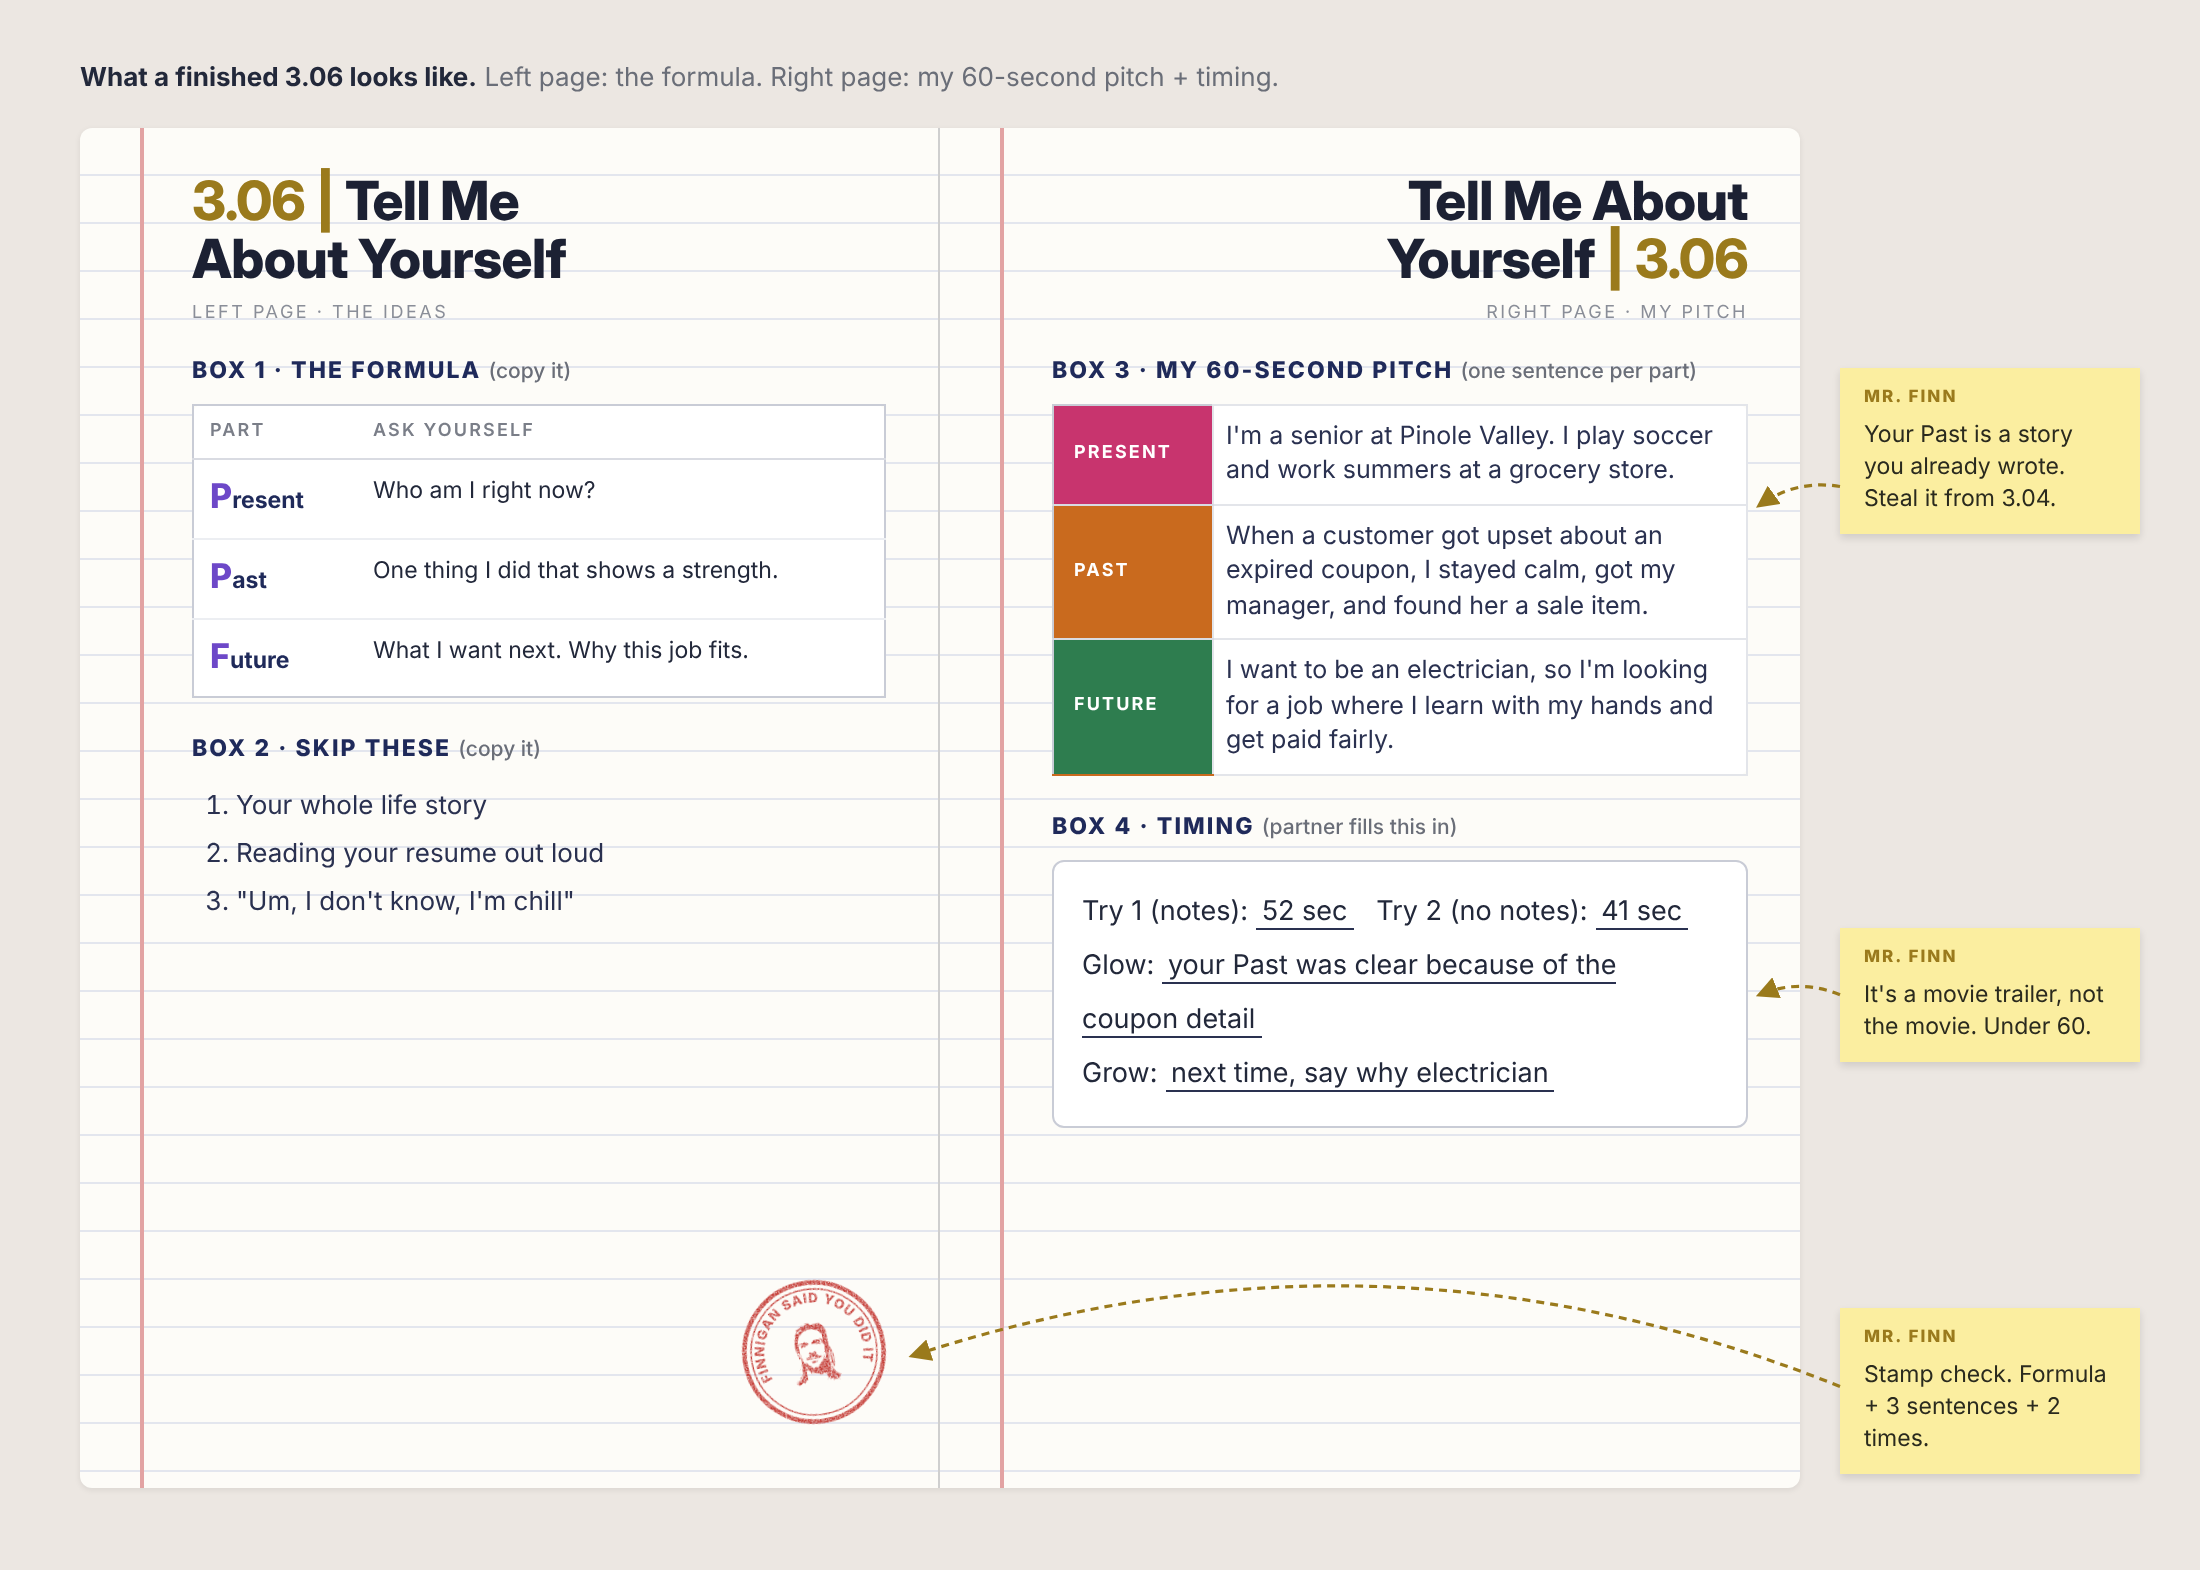
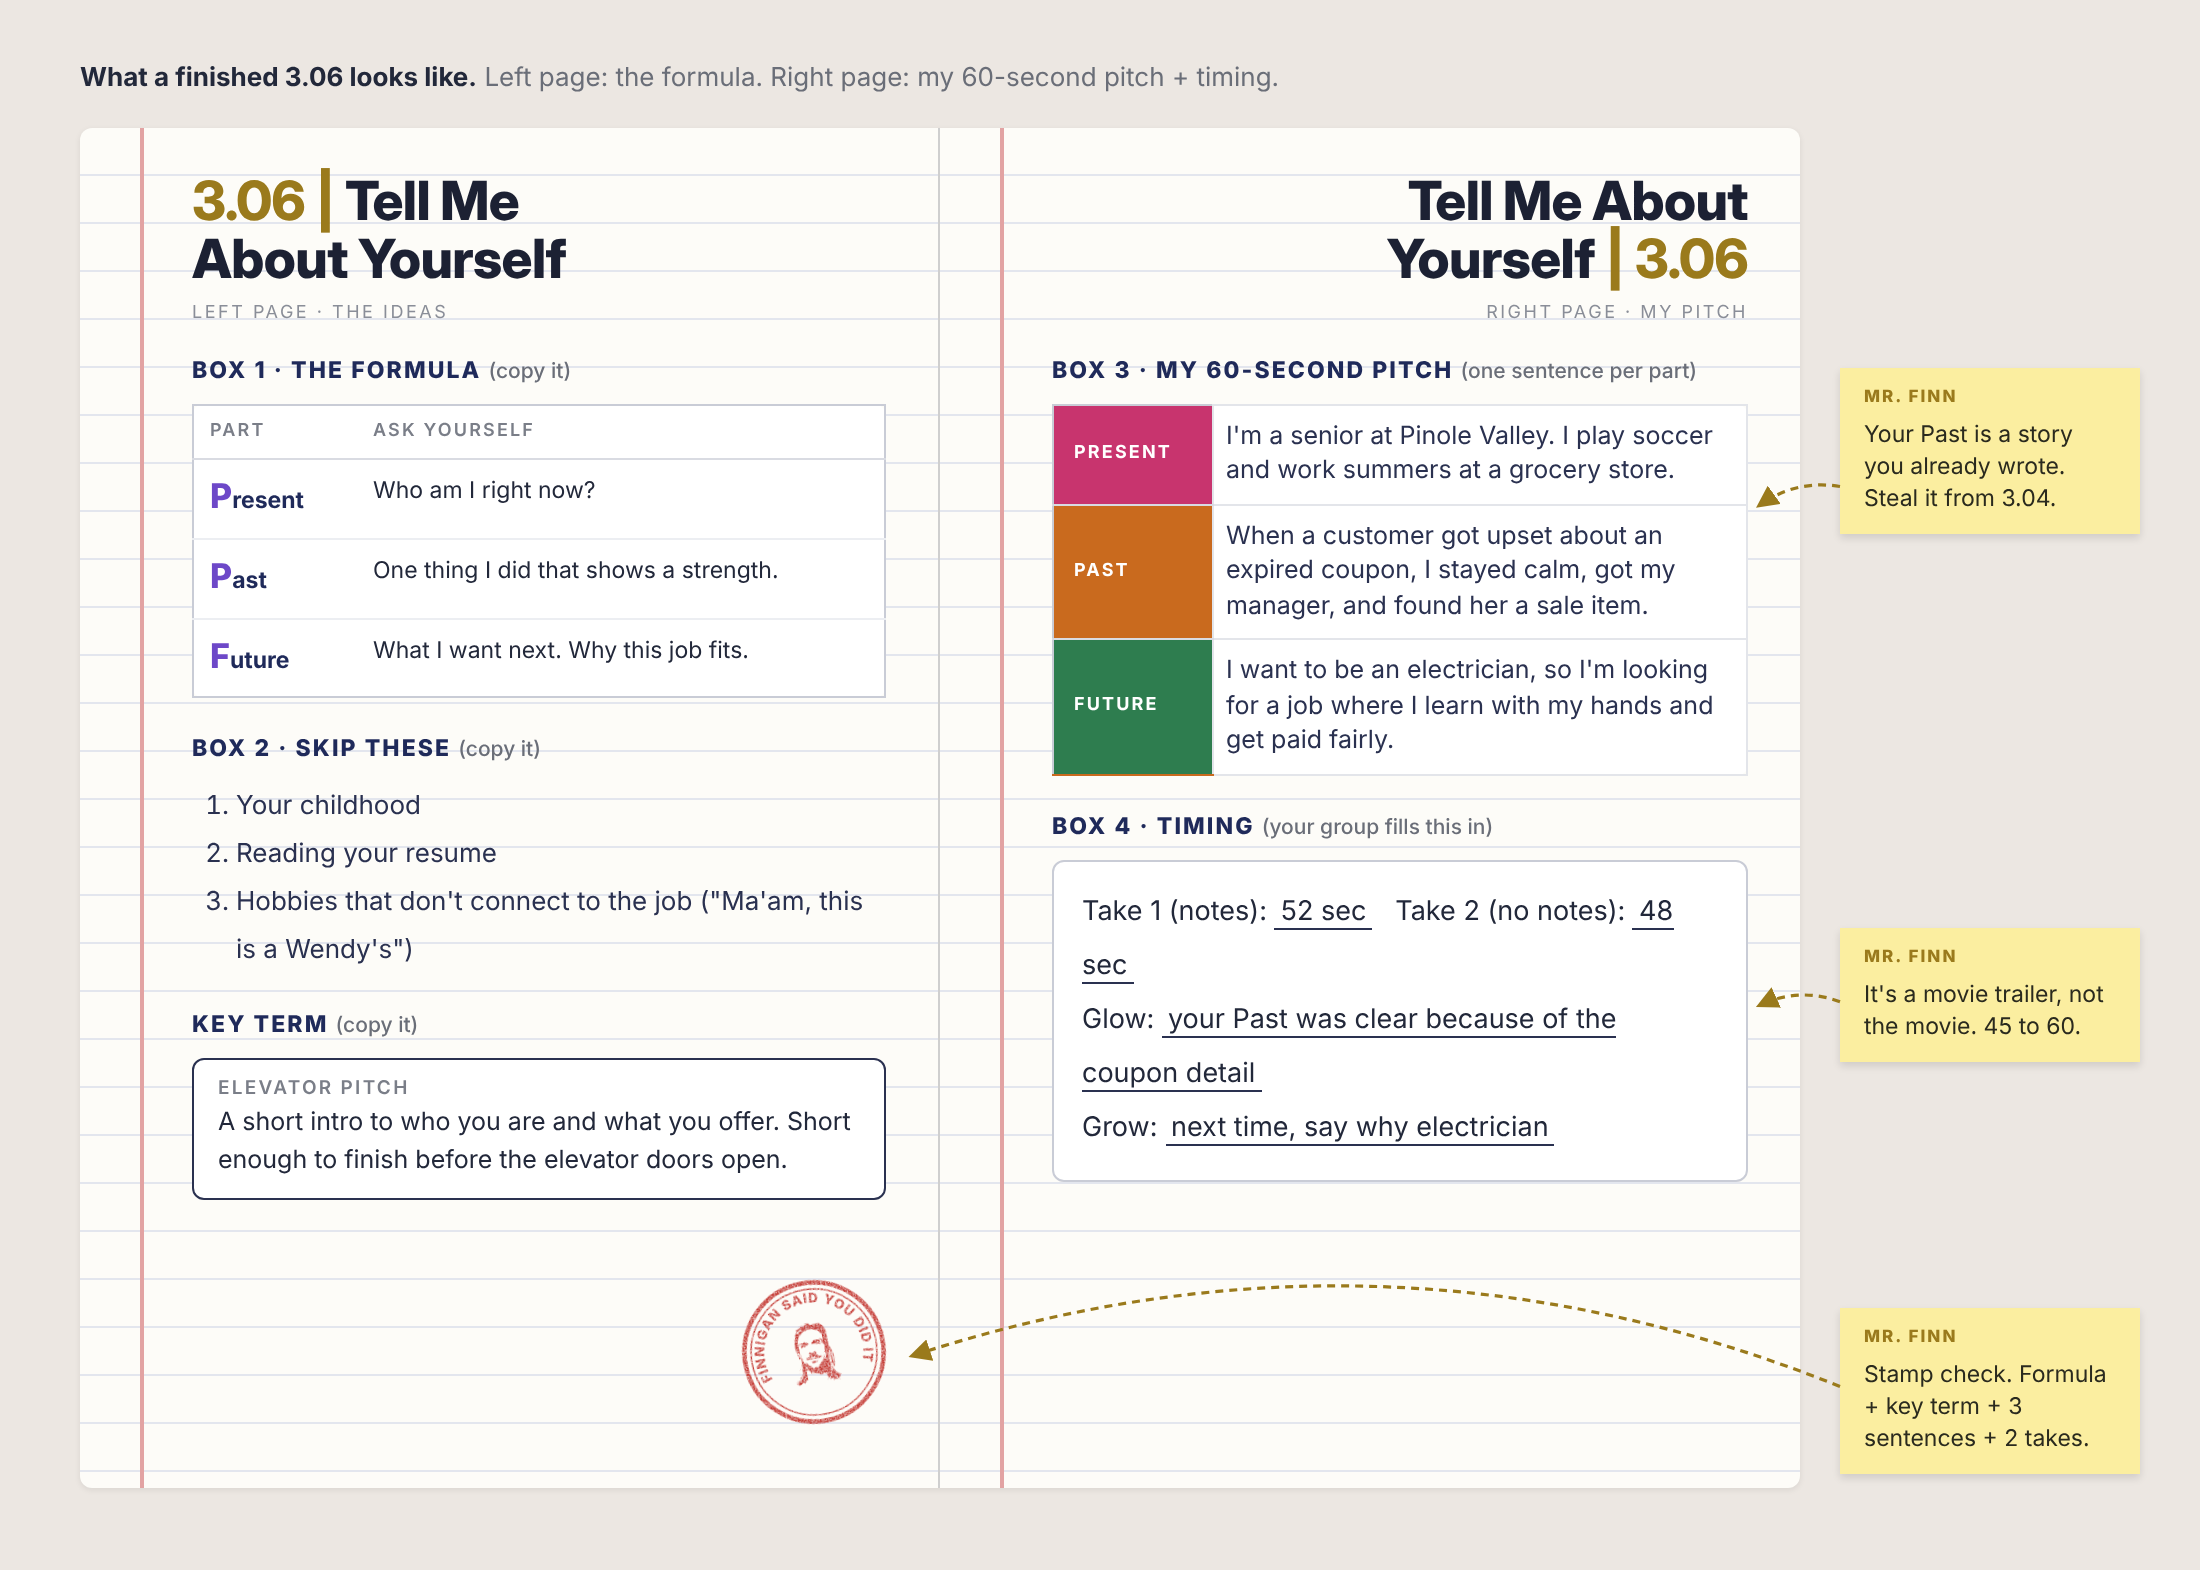
elevator pitch png addition

diff --git a/notebook-models/notebook-model-3.06.html b/notebook-models/notebook-model-3.06.html
@@ -107,10 +107,13 @@ table.drafts td.qn{text-align:center;font-weight:800;font-size:13px;color:#22283
   <div class="gap"></div>
   <div class="box">Box 2 · Skip These <span>(copy it)</span></div>
   <ol class="hand" id="skip">
-   <li>Your whole life story</li>
-   <li>Reading your resume out loud</li>
-   <li style="color:#2a3150;font-style:normal">"Um, I don't know, I'm chill"</li>
+   <li>Your childhood</li>
+   <li>Reading your resume</li>
+   <li style="color:#2a3150;font-style:normal">Off-topic hobbies ("Ma'am, this is a Wendy's")</li>
   </ol>
+  <div class="gap"></div>
+  <div class="box">Key Term <span>(copy it)</span></div>
+  <div class="study" id="keyterm"><div class="k">Elevator Pitch</div><p>A short intro to who you are and what you offer. Short enough to finish before the elevator doors open.</p></div>
   <svg class="stamp" id="stamp" contenteditable="false" style="left:330px;top:575px" viewBox="0 0 100 100">
    <defs>
     <filter id="rough"><feTurbulence type="fractalNoise" baseFrequency=".9" numOctaves="2" seed="4"></feTurbulence><feColorMatrix values="0 0 0 0 0  0 0 0 0 0  0 0 0 0 0  0 0 0 -1.6 1.55"></feColorMatrix><feComposite in="SourceGraphic" operator="in"></feComposite></filter>
@@ -136,14 +139,14 @@ table.drafts td.qn{text-align:center;font-weight:800;font-size:13px;color:#22283
    <tr><th class="r">Future</th><td>I want to be an electrician, so I'm looking for a job where I learn with my hands and get paid fairly.</td></tr>
   </tbody></table>
   <div class="gap"></div>
-  <div class="box">Box 4 · Timing <span>(partner fills this in)</span></div>
-  <div class="bank" id="time">Try 1 (notes): <u>52 sec</u> &nbsp; Try 2 (no notes): <u>41 sec</u><br>Glow: <u>your Past was clear because of the coupon detail</u><br>Grow: <u>next time, say why electrician</u></div>
+  <div class="box">Box 4 · Timing <span>(your group fills this in)</span></div>
+  <div class="bank" id="time">Take 1 (notes): <u>52&nbsp;sec</u> &nbsp; Take 2 (closed): <u>48&nbsp;sec</u><br>Glow: <u>your Past was clear because of the coupon detail</u><br>Grow: <u>next time, say why electrician</u></div>
  </div>
 </div>
 <div class="notes" id="notes" contenteditable="true" spellcheck="false">
  <div class="sticky" id="n2" data-target="pitch" style="top: 120px; left: 0px;"><div class="who" contenteditable="false" title="Drag to move">MR. FINN</div>Your Past is a story you already wrote. Steal it from 3.04.</div>
- <div class="sticky" id="n3" data-target="time" style="top: 400px; left: 0px;"><div class="who" contenteditable="false" title="Drag to move">MR. FINN</div>It's a movie trailer, not the movie. Under 60.</div>
- <div class="sticky" id="n4" data-target="stamp" style="top: 590px; left: 0px;"><div class="who" contenteditable="false" title="Drag to move">MR. FINN</div>Stamp check. Formula + 3 sentences + 2 times.</div>
+ <div class="sticky" id="n3" data-target="time" style="top: 400px; left: 0px;"><div class="who" contenteditable="false" title="Drag to move">MR. FINN</div>It's a movie trailer, not the movie. 45 to 60.</div>
+ <div class="sticky" id="n4" data-target="stamp" style="top: 590px; left: 0px;"><div class="who" contenteditable="false" title="Drag to move">MR. FINN</div>Stamp check. Formula + key term + 3 sentences + 2 takes.</div>
 </div>
 </div></div>
 <div id="bar"><span>Click any text to edit. Drag MR. FINN labels and the stamp.</span><button class="ghost" id="reset">Reset</button><button class="ghost" id="savefile">Save to File</button><button id="export">Export PNG</button></div>
